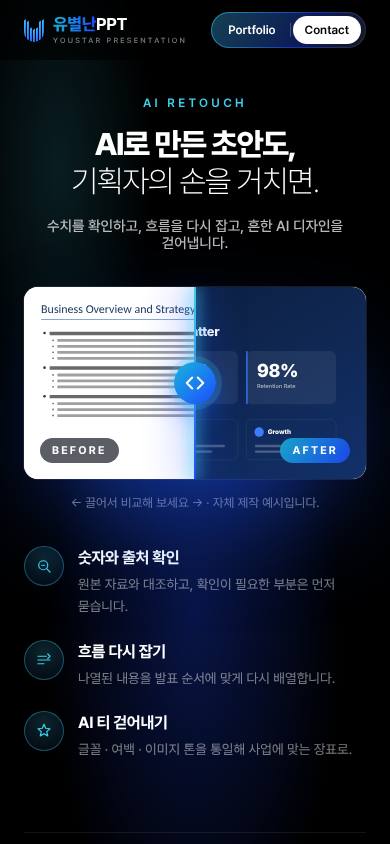
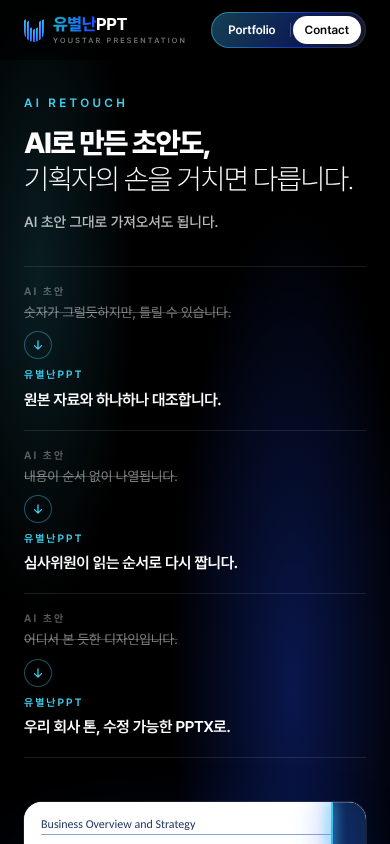
v2 AI: left headline + "AI 초안 → 유별난PPT" compare rows, smaller before/after on right
Claude-Session: https://claude.ai/code/session_01NURhbB6Mq8R8WnaczfYj5a

diff --git a/redesign/v2/index.html b/redesign/v2/index.html
@@ -176,34 +176,38 @@ a{color:inherit;text-decoration:none}
   .svc__foot{text-align:left;font-size:13px}
 }
 
-/* 여섯 번째: AI 리터치 — 가운데 큰 비포·애프터 + 짧은 세 가지, 아래 확장 제작 띠 */
+/* 여섯 번째: AI 리터치 — 왼쪽 제목 + AI 초안→유별난 비교 세 줄, 오른쪽 작은 비포·애프터, 아래 확장 제작 띠 */
 .aix{position:relative;padding:140px 0 120px;isolation:isolate;overflow-x:clip}
-.aix::before{content:"";position:absolute;inset:0;z-index:-1;background:radial-gradient(ellipse 55% 45% at 50% 55%,rgba(31,75,255,.28),transparent 70%),radial-gradient(ellipse 35% 35% at 15% 15%,rgba(63,208,240,.14),transparent 70%)}
-.aix__head{text-align:center}
+.aix::before{content:"";position:absolute;inset:0;z-index:-1;background:radial-gradient(ellipse 45% 50% at 75% 50%,rgba(31,75,255,.3),transparent 70%),radial-gradient(ellipse 35% 35% at 10% 20%,rgba(63,208,240,.14),transparent 70%)}
+.aix__grid{display:grid;grid-template-columns:minmax(0,1.05fr) minmax(0,1fr);gap:72px;align-items:center}
 .aix small.k{display:block;font-size:12px;font-weight:600;letter-spacing:.28em;color:#3fd0f0;text-transform:uppercase}
-.aix h2{margin:16px 0 0;font-size:clamp(30px,3.6vw,52px);line-height:1.16;letter-spacing:-.045em}
+.aix h2{margin:16px 0 0;font-size:clamp(28px,2.9vw,42px);line-height:1.22;letter-spacing:-.045em}
 .aix h2 b{font-weight:800}.aix h2 span{font-weight:250}
-.aix__head p{margin:18px 0 0;font-size:16px;color:var(--ink-2);font-weight:500}
-.ba{position:relative;max-width:820px;margin:56px auto 0;border-radius:20px;overflow:hidden;box-shadow:0 50px 120px -40px rgba(31,90,255,.75),0 0 0 1px rgba(255,255,255,.1)}
+.aix__lead{margin:16px 0 0;font-size:16px;color:var(--ink-2);font-weight:500}
+.cmp{margin:36px 0 0;padding:0;list-style:none;border-top:1px solid rgba(255,255,255,.1)}
+.cmp li{display:grid;grid-template-columns:minmax(0,1fr) 28px minmax(0,1.15fr);align-items:center;gap:14px;padding:20px 4px;border-bottom:1px solid rgba(255,255,255,.1);cursor:default;opacity:0;transform:translateY(12px);transition:opacity .8s var(--ease),transform .8s var(--ease),background .4s}
+.cmp.is-in li{opacity:1;transform:none}
+.cmp.is-in li:nth-child(2){transition-delay:.15s}.cmp.is-in li:nth-child(3){transition-delay:.3s}
+.cmp li:hover{background:linear-gradient(90deg,transparent,rgba(31,75,255,.1))}
+.cmp s{text-decoration:line-through;text-decoration-color:rgba(255,255,255,.25);font-size:13.5px;line-height:1.6;color:var(--ink-3)}
+.cmp__a small{display:block;margin-bottom:4px;font-size:10.5px;font-weight:600;letter-spacing:.2em;color:rgba(255,255,255,.35)}
+.cmp i{font-style:normal;display:grid;place-items:center;width:28px;height:28px;border-radius:50%;color:#3fd0f0;box-shadow:inset 0 0 0 1px rgba(63,208,240,.4)}
+.cmp i svg{width:14px;height:14px}
+.cmp b{font-size:15.5px;font-weight:600;line-height:1.55;letter-spacing:-.02em;color:#fff}
+.cmp b small{display:block;margin-bottom:4px;font-size:10.5px;font-weight:600;letter-spacing:.2em;color:#3fd0f0}
+.ba{position:relative;border-radius:18px;overflow:hidden;box-shadow:0 40px 100px -40px rgba(31,90,255,.75),0 0 0 1px rgba(255,255,255,.1)}
 .ba__view{position:relative;aspect-ratio:16/9;background:#fff;touch-action:pan-y;cursor:ew-resize}
 .ba__view img{position:absolute;inset:0;width:100%;height:100%;object-fit:cover;user-select:none;-webkit-user-drag:none}
 .ba__after{clip-path:inset(0 0 0 var(--x,50%))}
-.ba__line{position:absolute;top:0;bottom:0;left:var(--x,50%);width:2px;margin-left:-1px;background:linear-gradient(#3fd0f0,#1f4bff);box-shadow:0 0 14px 2px rgba(63,208,240,.8),0 0 40px 8px rgba(31,75,255,.4);pointer-events:none}
-.ba__knob{position:absolute;top:50%;left:var(--x,50%);width:52px;height:52px;margin:-26px 0 0 -26px;border-radius:50%;display:grid;place-items:center;background:linear-gradient(135deg,#16b6dc,#1f4bff);color:#fff;pointer-events:none;box-shadow:0 0 0 6px rgba(63,208,240,.18),0 10px 30px -6px rgba(31,90,255,.9)}
-.ba__knob svg{width:22px;height:22px}
-.ba.is-anim .ba__after{transition:clip-path 1.4s var(--ease)}
-.ba.is-anim .ba__line,.ba.is-anim .ba__knob{transition:left 1.4s var(--ease)}
-.ba__tag{position:absolute;bottom:16px;z-index:2;padding:6px 12px;border-radius:999px;font-size:11px;font-weight:700;letter-spacing:.2em;color:#fff;background:rgba(5,8,20,.65);backdrop-filter:blur(8px);-webkit-backdrop-filter:blur(8px);pointer-events:none}
-.ba__tag--l{left:16px}.ba__tag--r{right:16px;background:linear-gradient(120deg,rgba(22,182,220,.85),rgba(31,75,255,.85))}
+.ba__line{position:absolute;top:0;bottom:0;left:var(--x,50%);width:2px;margin-left:-1px;background:linear-gradient(#3fd0f0,#1f4bff);box-shadow:0 0 12px 2px rgba(63,208,240,.8),0 0 30px 6px rgba(31,75,255,.4);pointer-events:none}
+.ba__knob{position:absolute;top:50%;left:var(--x,50%);width:40px;height:40px;margin:-20px 0 0 -20px;border-radius:50%;display:grid;place-items:center;background:linear-gradient(135deg,#16b6dc,#1f4bff);color:#fff;pointer-events:none;box-shadow:0 0 0 5px rgba(63,208,240,.18),0 8px 24px -6px rgba(31,90,255,.9)}
+.ba__knob svg{width:18px;height:18px}
+.ba.is-anim .ba__after{transition:clip-path 1.2s var(--ease)}
+.ba.is-anim .ba__line,.ba.is-anim .ba__knob{transition:left 1.2s var(--ease)}
+.ba__tag{position:absolute;bottom:12px;z-index:2;padding:5px 10px;border-radius:999px;font-size:10px;font-weight:700;letter-spacing:.2em;color:#fff;background:rgba(5,8,20,.65);pointer-events:none}
+.ba__tag--l{left:12px}.ba__tag--r{right:12px;background:linear-gradient(120deg,rgba(22,182,220,.9),rgba(31,75,255,.9))}
 .ba__range{position:absolute;inset:0;width:100%;height:100%;margin:0;opacity:0;cursor:ew-resize}
-.ba__hint{margin:16px 0 0;text-align:center;font-size:12.5px;color:var(--ink-3)}
-.aipts{display:grid;grid-template-columns:repeat(3,1fr);gap:40px;max-width:980px;margin:56px auto 0;padding:0;list-style:none}
-.aipts li{display:grid;grid-template-columns:40px 1fr;gap:14px;align-items:start}
-.aipts .ic{width:40px;height:40px;border-radius:50%;display:grid;place-items:center;color:#3fd0f0;background:radial-gradient(circle at 50% 30%,rgba(63,208,240,.18),rgba(31,75,255,.06));box-shadow:inset 0 0 0 1px rgba(63,208,240,.35)}
-.aipts .ic svg{width:18px;height:18px}
-.aipts h3{margin:2px 0 0;font-size:16px;font-weight:700;letter-spacing:-.02em}
-.aipts p{margin:6px 0 0;font-size:13.5px;line-height:1.65;color:var(--ink-3)}
-/* 확장 제작: 조용한 한 줄 */
+.ba__hint{display:flex;justify-content:space-between;margin:14px 2px 0;font-size:12px;color:var(--ink-3)}
 .ext{display:flex;align-items:center;gap:40px;margin-top:110px;padding-top:40px;border-top:1px solid rgba(255,255,255,.08)}
 .ext__t{flex:none}
 .ext__t b{display:block;font-size:18px;font-weight:700;letter-spacing:-.02em}
@@ -215,11 +219,11 @@ a{color:inherit;text-decoration:none}
 .ext .gbtn{flex:none;height:46px;font-size:14px}
 @media (max-width:860px){
   .aix{padding:96px 0 80px}
-  .aix h2{font-size:clamp(28px,8vw,36px)}
-  .aix__head p{font-size:14.5px}
-  .ba{margin-top:36px;border-radius:14px}
-  .ba__knob{width:42px;height:42px;margin:-21px 0 0 -21px}
-  .aipts{grid-template-columns:1fr;gap:22px;margin-top:36px}
+  .aix__grid{grid-template-columns:1fr;gap:44px}
+  .aix h2{font-size:clamp(26px,7.4vw,32px)}
+  .aix__lead{font-size:14.5px}
+  .cmp li{grid-template-columns:1fr;gap:8px;padding:18px 0}
+  .cmp i{transform:rotate(90deg)}
   .ext{flex-direction:column;align-items:stretch;gap:20px;margin-top:72px}
   .ext .gbtn{width:100%}
 }
@@ -415,12 +419,15 @@ a{color:inherit;text-decoration:none}
 </section>
 <section class="aix" id="visual">
   <div class="wrap">
-    <div class="aix__head">
-      <small class="k">AI Retouch</small>
-      <h2><b>AI로 만든 초안도,</b><br><span>기획자의 손을 거치면.</span></h2>
-      <p>수치를 확인하고, 흐름을 다시 잡고, 흔한 AI 디자인을 걷어냅니다.</p>
-    </div>
-    <div class="ba" id="ba">
+    <div class="aix__grid">
+      <div>
+        <small class="k">AI Retouch</small>
+        <h2><b>AI로 만든 초안도,</b><br><span>기획자의 손을 거치면 다릅니다.</span></h2>
+        <p class="aix__lead">AI 초안 그대로 가져오셔도 됩니다.</p>
+        <ul class="cmp" id="cmp"><li><span class="cmp__a"><small>AI 초안</small><s>숫자가 그럴듯하지만, 틀릴 수 있습니다.</s></span><i><svg viewBox="0 0 24 24" fill="none" stroke="currentColor" stroke-width="2.2" stroke-linecap="round" stroke-linejoin="round"><path d="M5 12h14M13 6l6 6-6 6"/></svg></i><b><small>유별난PPT</small>원본 자료와 하나하나 대조합니다.</b></li><li><span class="cmp__a"><small>AI 초안</small><s>내용이 순서 없이 나열됩니다.</s></span><i><svg viewBox="0 0 24 24" fill="none" stroke="currentColor" stroke-width="2.2" stroke-linecap="round" stroke-linejoin="round"><path d="M5 12h14M13 6l6 6-6 6"/></svg></i><b><small>유별난PPT</small>심사위원이 읽는 순서로 다시 짭니다.</b></li><li><span class="cmp__a"><small>AI 초안</small><s>어디서 본 듯한 디자인입니다.</s></span><i><svg viewBox="0 0 24 24" fill="none" stroke="currentColor" stroke-width="2.2" stroke-linecap="round" stroke-linejoin="round"><path d="M5 12h14M13 6l6 6-6 6"/></svg></i><b><small>유별난PPT</small>우리 회사 톤, 수정 가능한 PPTX로.</b></li></ul>
+      </div>
+      <div>
+        <div class="ba" id="ba">
       <div class="ba__view">
         <img src="assets/slides/before.svg" alt="작업 전: 글자만 빽빽한 초안 슬라이드">
         <img class="ba__after" src="assets/slides/after.svg" alt="작업 후: 핵심 수치가 한눈에 보이는 슬라이드">
@@ -429,12 +436,9 @@ a{color:inherit;text-decoration:none}
         <input class="ba__range" type="range" min="0" max="100" value="50" aria-label="작업 전후 비교: 좌우로 움직여 보세요">
       </div>
     </div>
-    <p class="ba__hint">← 끌어서 비교해 보세요 → · 자체 제작 예시입니다.</p>
-    <ul class="aipts">
-      <li><span class="ic"><svg viewBox="0 0 24 24" fill="none" stroke="currentColor" stroke-width="1.6" stroke-linecap="round" stroke-linejoin="round"><circle cx="11" cy="11" r="6"/><path d="M20 20l-4.5-4.5M9 11h4"/></svg></span><div><h3>숫자와 출처 확인</h3><p>원본 자료와 대조하고, 확인이 필요한 부분은 먼저 묻습니다.</p></div></li>
-      <li><span class="ic"><svg viewBox="0 0 24 24" fill="none" stroke="currentColor" stroke-width="1.6" stroke-linecap="round" stroke-linejoin="round"><path d="M4 7h11M4 12h16M4 17h8"/><path d="M17 4l3 3-3 3"/></svg></span><div><h3>흐름 다시 잡기</h3><p>나열된 내용을 발표 순서에 맞게 다시 배열합니다.</p></div></li>
-      <li><span class="ic"><svg viewBox="0 0 24 24" fill="none" stroke="currentColor" stroke-width="1.6" stroke-linecap="round" stroke-linejoin="round"><path d="M12 3l2.2 5.3L20 9l-4.4 3.8L17 18.5 12 15.6 7 18.5l1.4-5.7L4 9l5.8-.7z"/></svg></span><div><h3>AI 티 걷어내기</h3><p>글꼴 · 여백 · 이미지 톤을 통일해 사업에 맞는 장표로.</p></div></li>
-    </ul>
+        <p class="ba__hint"><span>← 끌어서 비교해 보세요 →</span><span>자체 제작 예시</span></p>
+      </div>
+    </div>
     <div class="ext">
       <div class="ext__t"><b>사업에 필요한 제작도 이어서.</b><span>범위에 맞춰 진행하며, 금액은 별도 협의합니다.</span></div>
       <div class="ext__flow" aria-label="PPT 외 제작 가능 범위"><div class="ext__row"><span>제품 · 서비스 연출컷</span><span>사진 보정 · 합성</span><span>상세페이지</span><span>랜딩페이지 · 홈페이지</span><span>서비스 소개 인포그래픽</span><span>짧은 인포그래픽 영상</span><span>웹 · UI/UX</span><span>AI 업무 자동화 툴</span><span>Android · iOS 앱 상담</span><span aria-hidden="true">제품 · 서비스 연출컷</span><span aria-hidden="true">사진 보정 · 합성</span><span aria-hidden="true">상세페이지</span><span aria-hidden="true">랜딩페이지 · 홈페이지</span><span aria-hidden="true">서비스 소개 인포그래픽</span><span aria-hidden="true">짧은 인포그래픽 영상</span><span aria-hidden="true">웹 · UI/UX</span><span aria-hidden="true">AI 업무 자동화 툴</span><span aria-hidden="true">Android · iOS 앱 상담</span></div></div>
@@ -699,6 +703,7 @@ a{color:inherit;text-decoration:none}
 <script>
 (() => {
   const ba = document.getElementById("ba"); if (!ba) return;
+  const cmp = document.getElementById("cmp"); if (cmp) new IntersectionObserver((es, o) => es.forEach((e) => { if (e.isIntersecting) { cmp.classList.add("is-in"); o.disconnect(); } }), { threshold: .3 }).observe(cmp);
   const reduce = matchMedia("(prefers-reduced-motion: reduce)").matches;
   const r = ba.querySelector(".ba__range"), set = (v) => ba.style.setProperty("--x", v + "%");
   r.addEventListener("input", () => { ba.classList.remove("is-anim"); set(r.value); });
